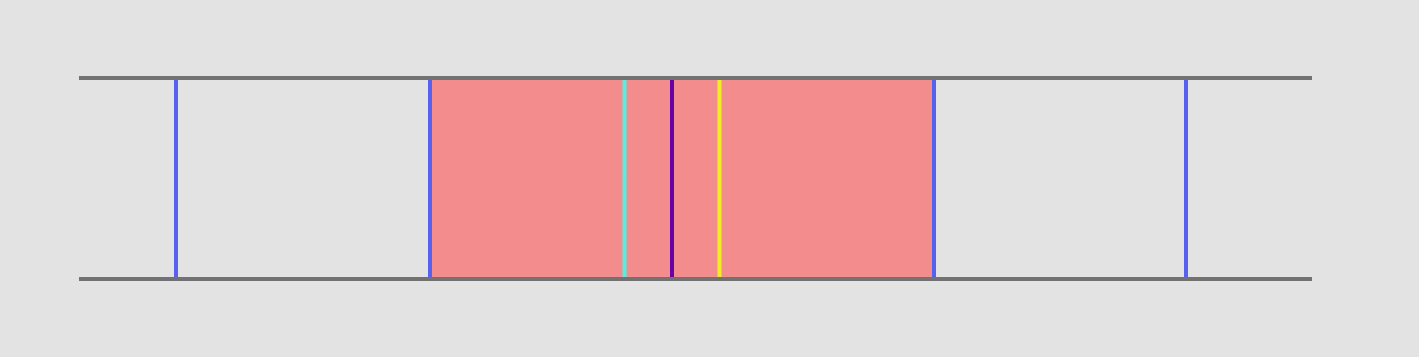
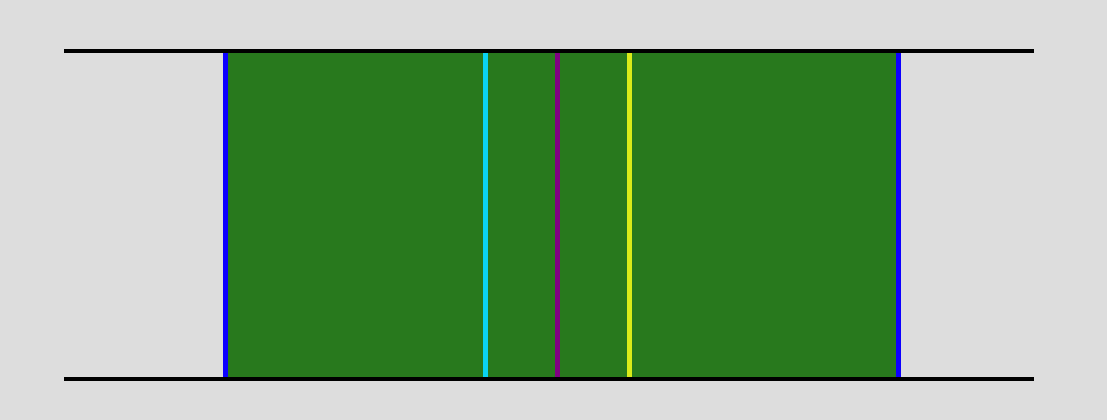
Tutorials revamp and fixes

diff --git a/tutorials/Gameplay.md b/tutorials/Gameplay.md
@@ -63,8 +63,8 @@ Beatblocks의 [판정](../src/main/java/net/spacedvoid/beatblocks/common/game/Ju
 
 ![Timeline2](./images/Gameplay_Timeline_2.png)
 
-빨간 선은 (실제 타이밍과는 상관없이) 노트를 처리하기 위한 입력이 들어온 시간입니다.
-판정은 파란 선 직후에만 처리되기 때문에 Beatblocks가 보는 입력은 아래의 초록 선과 같습니다:
+녹색 선은 (실제 타이밍과는 상관없이) 노트를 처리하기 위한 입력이 들어온 시간입니다.
+판정은 파란 선 직후에만 처리되기 때문에 Beatblocks가 보는 입력은 아래의 빨간 선과 같습니다:
 
 ![Timeline3](./images/Gameplay_Timeline_3.png)
 
@@ -76,9 +76,9 @@ Beatblocks의 [판정](../src/main/java/net/spacedvoid/beatblocks/common/game/Ju
 
 ![Timeline4](./images/Gameplay_Timeline_4.png)
 
-이 그림에서 자주색 선은 실제 타이밍, 분홍색 영역은 이 노트가 PERFECT로 처리되기 위해 실제로 입력이 있었어야 하는 시간대입니다.
-실제 입력(빨간색 선)은 실제 타이밍 직후에 들어와 보기에는 PERFECT 판정으로 처리되어야 한다고 생각됩니다.
-하지만, 분홍색 영역 안에서 들어오는 입력은 주황색 선에서, 실제 입력은 초록색 선에서 처리되기 때문에 이 판정은 GREAT로 처리됩니다.
+이 그림에서 분홍색 선은 실제 타이밍, 주황색 영역은 이 노트가 PERFECT로 처리되기 위해 실제로 입력이 있었어야 하는 시간대입니다.
+실제 입력(녹색 선)은 실제 타이밍 직후에 들어와 보기에는 PERFECT 판정으로 처리되어야 한다고 생각됩니다.
+하지만, 주황색 영역 안에서 들어오는 입력은 빨간색 선에서, 실제 입력은 노란색 선에서 처리되기 때문에 이 판정은 GREAT로 처리됩니다.
 이와 같은 문제를 해결하기 위해 "애매한 판정" 시스템이 있습니다.
 
 "애매한 판정"이 적용되기 위한 조건은 간단합니다.
@@ -86,7 +86,7 @@ Beatblocks의 [판정](../src/main/java/net/spacedvoid/beatblocks/common/game/Ju
 
 ![Timeline5](./images/Gameplay_Timeline_5.png)
 
-따라서, 위 그림에서 두 분홍색 영역에 "애매한 판정"이 적용되어 분홍색 영역의 모든 입력이 PERFECT로 처리되기 위해서는 특정 처리 주기(자주색 선)에서 -10ms(하늘색 선)부터 +10ms(노란색 선) 사이에 실제 판정이 존재하면 됩니다.
+따라서, 위 그림에서 초록색 영역에 "애매한 판정"이 적용되어 초록색 영역의 모든 입력이 PERFECT로 처리되기 위해서는 특정 처리 주기(자주색 선)에서 -10ms(하늘색 선)부터 +10ms(노란색 선) 사이에 실제 판정이 존재하면 됩니다.
 
 [BIC 채보 파일](./Charts.md)을 보면 애매한 판정의 적용 여부가 그저 `true` 또는 `false`로 정해져 있습니다.
 이는 유저가 작성한 채보를 BIC 채보로 변환할 때 각 노트에 애매한 판정을 적용할지 결정한다는 것이므로, 실제 플레이타임에 이를 일일이 계산하지는 않습니다.

diff --git a/tutorials/Charts.md b/tutorials/Charts.md
@@ -1,7 +1,5 @@
 # BIC(Beatblocks Intermediate Chart) 채보 파일
 
----
-
 **중요:** 아래에서 설명하는 채보 파일은 Beatblocks가 인식하고 바로 실행할 수 있는, 바이트코드와 비슷한 형식의 파일로서
 플레이어가 직접 작성하는 것은 난이도가 매우 높습니다.
 이 문서는 단순히 변환된 채보 파일의 구조를 설명하는 글로써, 이 글을 읽고 바로 채보를 만들 수 있다는 보장은 할 수 없습니다.
@@ -65,4 +63,4 @@ chart=
 | **keys**       | - 사용할 키의 개수를 표시<br>- 가능한 값은 2, 4, 6, 8<br>- 각 값별 사용하는 라인 <br>&nbsp;&nbsp;&nbsp;- 2<!---->**:** 4 ~ 5 <br>&nbsp;&nbsp;&nbsp;- 4<!---->**:** 3 ~ 6 <br>&nbsp;&nbsp;&nbsp;- 6<!---->**:** 2 ~ 7 <br>&nbsp;&nbsp;&nbsp;- 8<!---->**:** 1 ~ 8                                                                                                                                                                                                                  |
 | **chart**      | - 구성 요소는 `타이밍,라인,판정` <br>- 타이밍 : 이전 노트 이후 노트가 생성되는 딜레이, 단위는 tick <br>- 라인 : 노트가 내려올 라인 <br>&nbsp;&nbsp;&nbsp;- 0\~3 또는 5\~8 까지의 정수값<br>&nbsp;&nbsp;&nbsp;- 순서대로 0<!---->**:** 1번 라인, 1<!---->**:** 2번 라인, **···** , 3<!---->**:** 4번 라인, 5<!---->**:** 5번 라인, **···** , 8<!---->**:** 8번 라인 <br>&nbsp;&nbsp;&nbsp;- `keys`에 명시된 사용할 라인을 벗어날 수 없음 <br>- 판정 : 애매한 판정 여부. 자세한 내용은 [게임플레이](./Gameplay.md#애매한-판정에-대해) 참고 <br>- 각 구성 요소가 파일 끝까지, 각 노트마다 한 줄씩 표현 |
 
-[^regex]: 정규표현식으로는 `[a-zA-Z0-9.: ]+` ([참고](../src/main/java/net/spacedvoid/beatblocks/common/parser/DefaultParser.java#L82))
+[^regex]: 정규표현식으로는 `[a-zA-Z0-9.: ]+` ([참고](../src/main/java/net/spacedvoid/beatblocks/common/parser/DefaultParser.java#L77))

diff --git a/tutorials/Commands.md b/tutorials/Commands.md
@@ -1,7 +1,5 @@
 # 명령어
 
----
-
 ### 공통
 
 - `/singleplayer`**:** 싱글플레이어 모드 활성화
